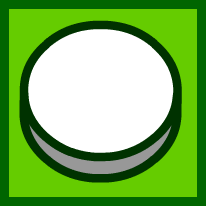
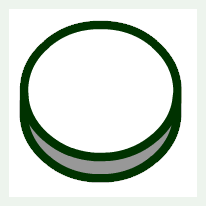
棋子落子时保持背景

diff --git a/grid.h b/grid.h
@@ -14,7 +14,7 @@ class PaintBlock: public QWidget
 public:
     explicit PaintBlock(QWidget * parent = nullptr): QWidget(parent), pic(":/img/white.png"){}
     void setPic(const QString& filen);
-    void PaintBlock::overlayPic(const QString& filen);
+    void setOverlayPic(const QString& filen);
     int id;
 private:
     QPixmap pic;
@@ -47,6 +47,14 @@ public:
         if(col > pBlocks[row].size())
             throw(runtime_error("setPic: col > pBlocks[col].size()"));
         pBlocks[row][col]->setPic(filen);
+    }
+    void setOverlayPic(size_t row, size_t col, const QString& filen)
+    {
+        if(row > pBlocks.size())
+            throw(runtime_error("setPic: row > pBlocks.size()"));
+        if(col > pBlocks[row].size())
+            throw(runtime_error("setPic: col > pBlocks[col].size()"));
+        pBlocks[row][col]->setOverlayPic(filen);
     }
     vector<vector<T*>> pBlocks;
     size_t row;

diff --git a/mainwindow.cpp b/mainwindow.cpp
@@ -180,7 +180,7 @@ void MainWindow::processMove(size_t this_row, size_t this_col)
     else if(!currentPlayer && chk) s = BCFN;
     else s = WCFN;
 
-    grid->setPic(this_row, this_col, s);
+    grid->setOverlayPic(this_row, this_col, s);
     grid->pBlocks[this_row][this_col]->isOccupied = true;
     if(playerType[currentPlayer] == COMPUTER)
     {

diff --git a/grid.cpp b/grid.cpp
@@ -6,9 +6,10 @@ void PaintBlock::setPic(const QString &filen)
     update();
 }
 
-void PaintBlock::overlayPic(const QString& filen)
+void PaintBlock::setOverlayPic(const QString& filen)
 {
     picover.load(filen);
+    update();
 }
 
 void PaintBlock::paintEvent(QPaintEvent *)
